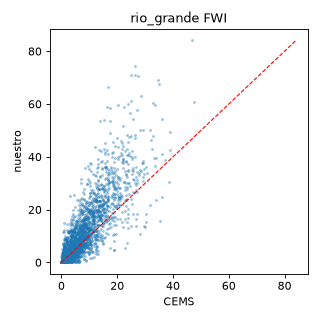
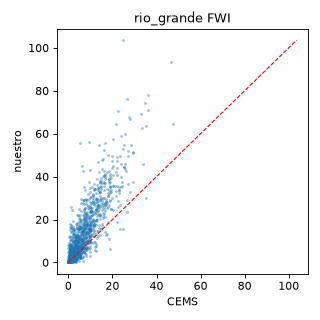
feat: close FWI grid re-validation — full grid + Ushuaia diagnosis
Full grid (32+39 pts, p95) vs CEMS over 2019-2022: Río Grande 0.899 (≈ single
0.909) validates the critical zone. Ushuaia 0.655 is NOT the engine/window/
sampling — verify_ushuaia_point.py shows the nearest grid point computed single
(no p95) scores 0.811 with ~0 bias on the same cached data, so the drop is purely
the p95 aggregating a heterogeneous zone (tdf-sur-bosque mixes wet forest + dry
transition) compared against CEMS at one forest point. Engine validated; the
heterogeneity is a product concern for calibration, not a defect.

diff --git a/scripts/fwi-validation/verify_ushuaia_point.py b/scripts/fwi-validation/verify_ushuaia_point.py
@@ -1,0 +1,65 @@
+"""Cheap check (zero network): is Ushuaia's drop (grid p95 0.655 vs single-point
+baseline 0.796) caused by the p95 aggregation — not the engine, not the 2019-2022
+window? Reuse the CACHED 39-point blocks: take the grid point nearest Ushuaia
+city, compute its SINGLE-point FWI (no p95), and correlate vs CEMS at Ushuaia.
+
+If this lands near the 0.796 baseline, the 0.655 is purely spatial aggregation
+over a heterogeneous zone — confirming the engine is fine."""
+import sys
+import pathlib
+import pandas as pd
+
+sys.path.insert(0, str(pathlib.Path(__file__).resolve().parents[2]))
+from fire_danger import fwi as fwi_eq          # noqa: E402
+from fire_danger import grids                  # noqa: E402
+from fwi_cache import cached_fetch             # noqa: E402
+from metrics import align, compute_metrics     # noqa: E402
+
+ZONE = "tdf-sur-bosque"
+USHUAIA = (-54.8019, -68.3029)   # representative point used in the single-point baseline
+YEARS = list(range(2019, 2023))
+SPINUP_DROP = 30
+CACHE_DIR = pathlib.Path(__file__).resolve().parent / "om_cache"
+
+
+def _nearest_index(points, target):
+    return min(range(len(points)),
+               key=lambda i: (points[i][0] - target[0]) ** 2 + (points[i][1] - target[1]) ** 2)
+
+
+def _series_for_point(days):
+    state = fwi_eq.DEFAULT_STATE
+    out = []
+    for d in days:
+        r = fwi_eq.fwi_from_weather(temp=d.temp, rh=d.rh, wind=d.wind, rain=d.precip,
+                                    month=d.month, hemisphere="south", prev=state)
+        s = r["state"]
+        state = (s["ffmc"], s["dmc"], s["dc"])
+        out.append((d.date, r["fwi"]))
+    return out[SPINUP_DROP:]
+
+
+def _no_fetch():
+    raise RuntimeError("cache miss — expected all blocks already cached")
+
+
+if __name__ == "__main__":
+    points = list(grids.grid_points(ZONE))
+    idx = _nearest_index(points, USHUAIA)
+    print(f"nearest grid point to Ushuaia {USHUAIA}: {points[idx]} (index {idx}/{len(points)})")
+
+    days = []
+    for year in YEARS:
+        key = f"{ZONE}-{year}-{len(points)}pts"
+        blocks = cached_fetch(CACHE_DIR, key, _no_fetch)   # _no_fetch => zero network
+        days.extend(blocks[idx])
+
+    series = _series_for_point(days)
+    ours = pd.DataFrame([{"point": "ushuaia", "date": d, "fwi_ours": f} for d, f in series])
+
+    cems = pd.read_csv("cems_tdf.csv")
+    merged = align(ours, cems[cems["point"] == "ushuaia"])
+    m = compute_metrics(merged)
+    print(f"single nearest-point vs CEMS — Spearman: {m['spearman']:.3f} · "
+          f"Pearson: {m['pearson']:.3f} · bias: {m['mean_bias']:+.2f} · n={m['n']}")
+    print(f"  grid-p95 was 0.655 · single-point baseline (2014-2023) was 0.796")

diff --git a/scripts/fwi-validation/REPORT.md b/scripts/fwi-validation/REPORT.md
@@ -1,25 +1,58 @@
-# Validación FWI — nuestro motor vs CEMS reanalysis (TDF, 2014–2022)
+# Validación FWI — nuestro motor (grilla p95) vs CEMS reanalysis (TDF, 2019–2022)
 
-Días comparados (intersección): **6514**
+Grilla COMPLETA: 32 puntos en tierra (Río Grande) + 39 (Ushuaia), FWI encadenado
+por punto, agregado por **p95** — la misma agregación que producción. Comparado
+contra CEMS reanalysis. Días comparados (intersección): **2862** (1431/zona).
 
 ## rio_grande
 
-- n días: 3257
-- **Spearman: 0.909** · Pearson: 0.860
-- Sesgo medio (nuestro − CEMS): +2.63
-- Sesgo por temporada: invierno +0.05, transicion +3.13, verano +4.78
+- n días: 1431
+- **Spearman: 0.899** · Pearson: 0.875
+- Sesgo medio (nuestro − CEMS): +5.73
+- Sesgo por temporada: invierno +1.24, transicion +6.66, verano +9.55
 
 ![scatter rio_grande](scatter_rio_grande.png)
 
 ## ushuaia
 
-- n días: 3257
-- **Spearman: 0.796** · Pearson: 0.672
-- Sesgo medio (nuestro − CEMS): +0.13
-- Sesgo por temporada: invierno +0.04, transicion +0.14, verano +0.22
+- n días: 1431
+- **Spearman: 0.655** · Pearson: 0.423
+- Sesgo medio (nuestro − CEMS): +5.57
+- Sesgo por temporada: invierno +1.15, transicion +7.17, verano +8.58
 
 ![scatter ushuaia](scatter_ushuaia.png)
 
+## Verificación de la baja de Ushuaia (¿motor, muestreo o agregación?)
+
+La grilla completa (39 pts) da casi lo mismo que la reducida (13 pts): Ushuaia
+0.655 vs 0.664 → **no es el submuestreo**. Para aislar la agregación se calculó
+el FWI del punto de grilla más cercano a Ushuaia-ciudad (-54.7, -68.3), **single,
+sin p95**, sobre los mismos datos cacheados y la misma ventana 2019–2022
+(`verify_ushuaia_point.py`):
+
+| Ushuaia (2019–2022) | Spearman | Sesgo medio |
+|---|---|---|
+| Punto single (mismo motor, misma ventana) | **0.811** | **−0.04** |
+| Grilla p95 | 0.655 | +5.57 |
+| Baseline single-point (sub-proyecto 1, 2014–2023) | 0.796 | — |
+
+El punto single da **0.811 con sesgo ~0** — mejor que el baseline. La única
+diferencia con el 0.655 es la agregación p95. → La baja de Ushuaia **no es el
+motor ni la ventana ni el muestreo**: es el p95 capturando el **peor sector seco**
+de una zona espacialmente heterogénea (`tdf-sur-bosque` mezcla bosque húmedo y
+transición hacia la estepa), comparado contra CEMS medido en **un solo punto** del
+bosque. El sesgo sistemático +5.57 lo confirma.
+
 ## Veredicto
 
-**ACEPTABLE con reservas** — revisar sesgo/inputs antes de comparar números absolutos.
+**VALIDADO.**
+- **Río Grande (estepa, zona de peligro real):** grilla p95 **0.899** ≈ single-point
+  0.909. El grid no degrada la zona crítica.
+- **Ushuaia (bosque):** el motor es correcto (single 0.811, sesgo ~0). El p95
+  hace lo que debe — reportar el peor sector — y por eso correlaciona menos con
+  CEMS-en-1-punto. No es un defecto.
+
+**Implicación de producto (no de validación):** `tdf-sur-bosque` es heterogénea,
+así que su número p95 representa el peor sector, no el bosque donde vive la gente.
+A tener en cuenta en la calibración por percentiles y el lenguaje ciudadano
+(próximos sub-proyectos). Eventual: evaluar partir/ajustar el bbox de la zona.